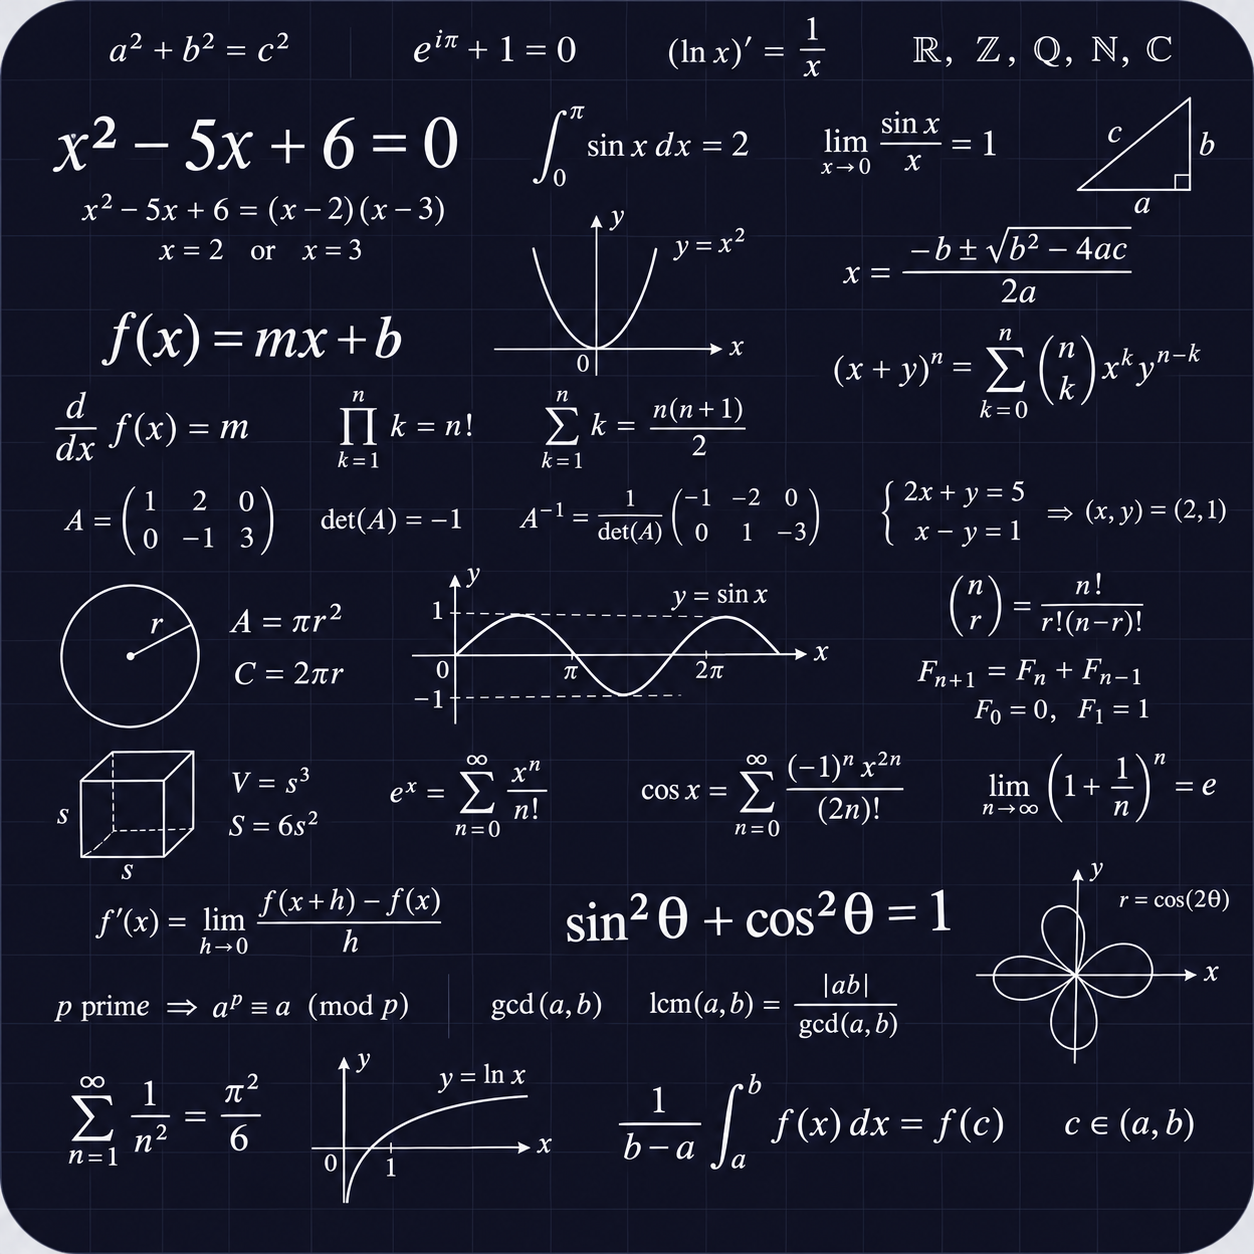
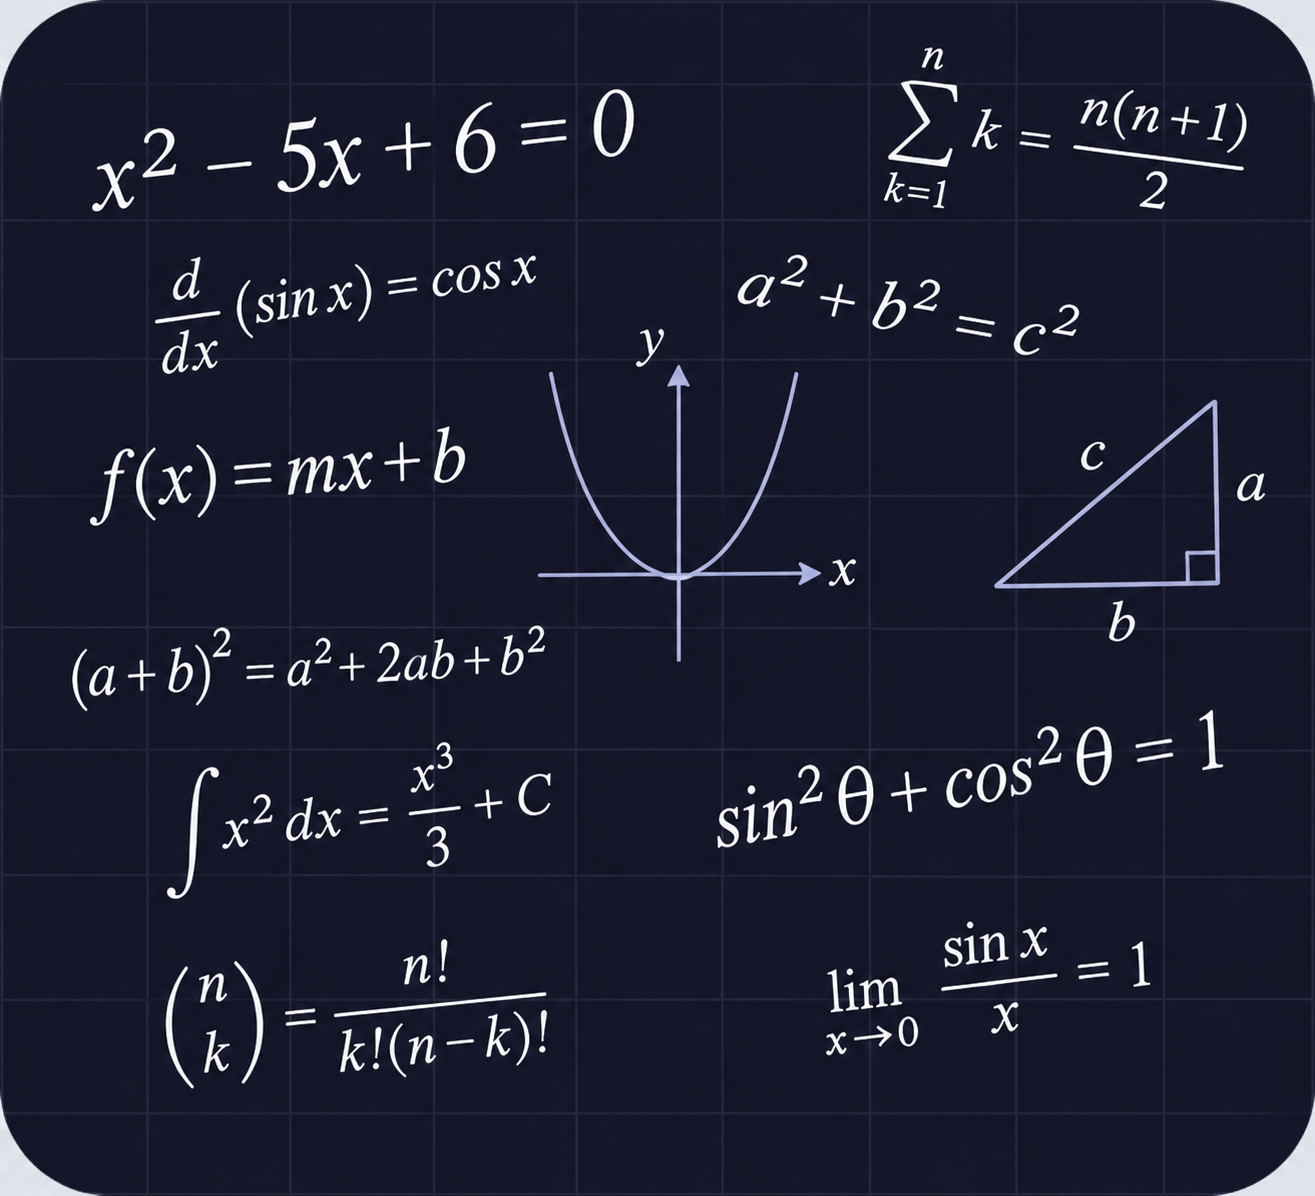
Add files via upload

diff --git a/README.md b/README.md
@@ -30,3 +30,5 @@ This is a redesigned static site for mathbytyler.com with a different visual lan
 - Added an exploratory small-group classes section and group-class inquiry option.
 
 - Replaced the sparse hero math panel with the denser generated mathematics artwork.
+
+- Replaced the dense hero math artwork with the new middle-ground version: random placement, slight rotations, faint grid, and moderate visual density.
